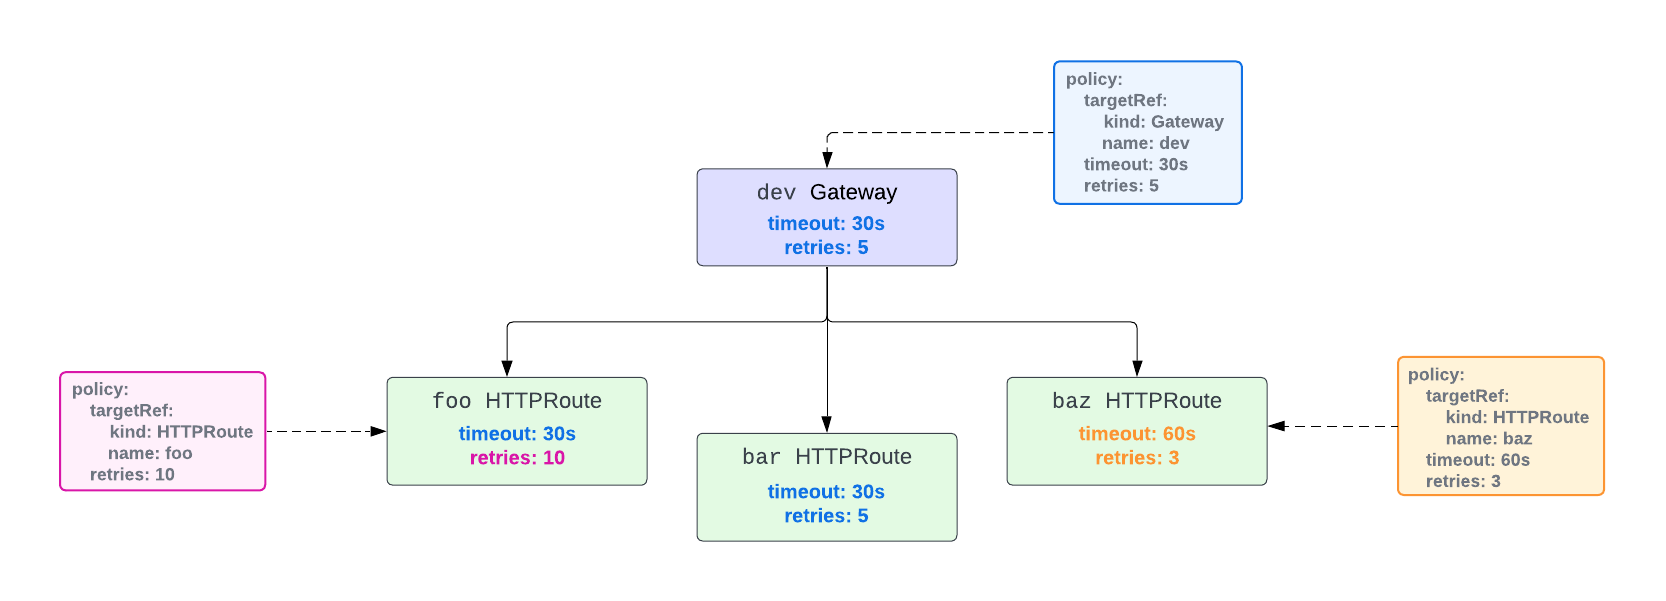
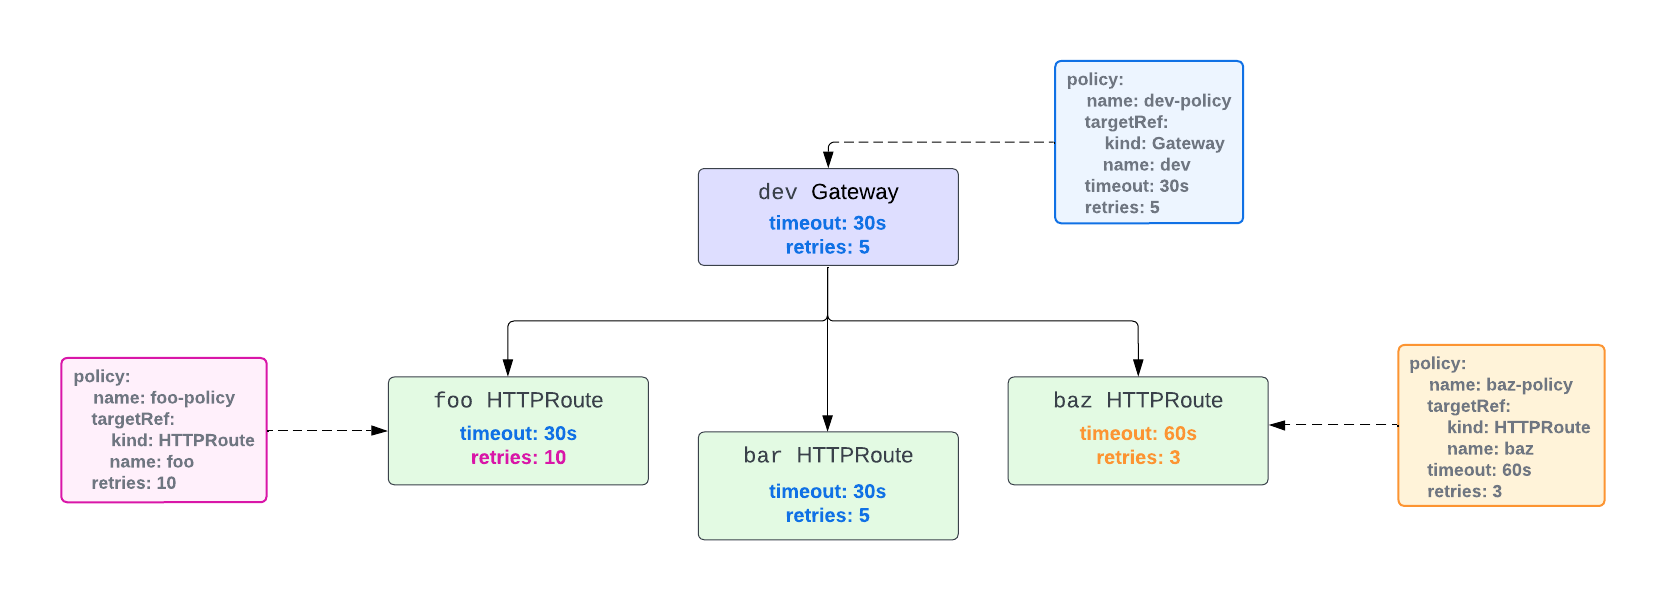
Change example policy names

diff --git a/site/content/overview/custom-policies.md b/site/content/overview/custom-policies.md
@@ -61,14 +61,14 @@ The following diagram shows how Inherited Policies work in NGINX Gateway Fabric 
 
 There are three policies defined:
 
-- Blue policy that targets the `dev` Gateway
-- Orange policy that targets the `baz` HTTPRoute
-- Pink policy that targets the `foo` HTTPRoute
+- `dev-policy` that targets the `dev` Gateway
+- `baz-policy` that targets the `baz` HTTPRoute
+- `foo-policy` that targets the `foo` HTTPRoute
 
-The settings in the blue policy affect the `dev` Gateway and are inherited by all the HTTPRoutes attached to `dev`.
-The orange and pink policies are attached to the `baz` and `foo` HTTPRoutes. Since HTTPRoutes are lower than Gateways in the hierarchy, the settings defined in the orange and pink policies override those in the blue policy.
-Since the pink policy only defines the `retries` setting, it still inherits the `timeout` setting from the blue policy.
-The `bar` HTTPRoute has no policy attached to it and inherits all the settings from the blue policy.
+The settings in `dev-policy` affect the `dev` Gateway and are inherited by all the HTTPRoutes attached to `dev`.
+The `baz-policy` and `foo-policy` are attached to the `baz` and `foo` HTTPRoutes. Since HTTPRoutes are lower than Gateways in the hierarchy, the settings defined in them override those in the `dev` policy.
+Since the `foo-policy` only defines the `retries` setting, it still inherits the `timeout` setting from `dev-policy`.
+The `bar` HTTPRoute has no policy attached to it and inherits all the settings from `dev-policy`.
 
 ## Merging Policies
 
